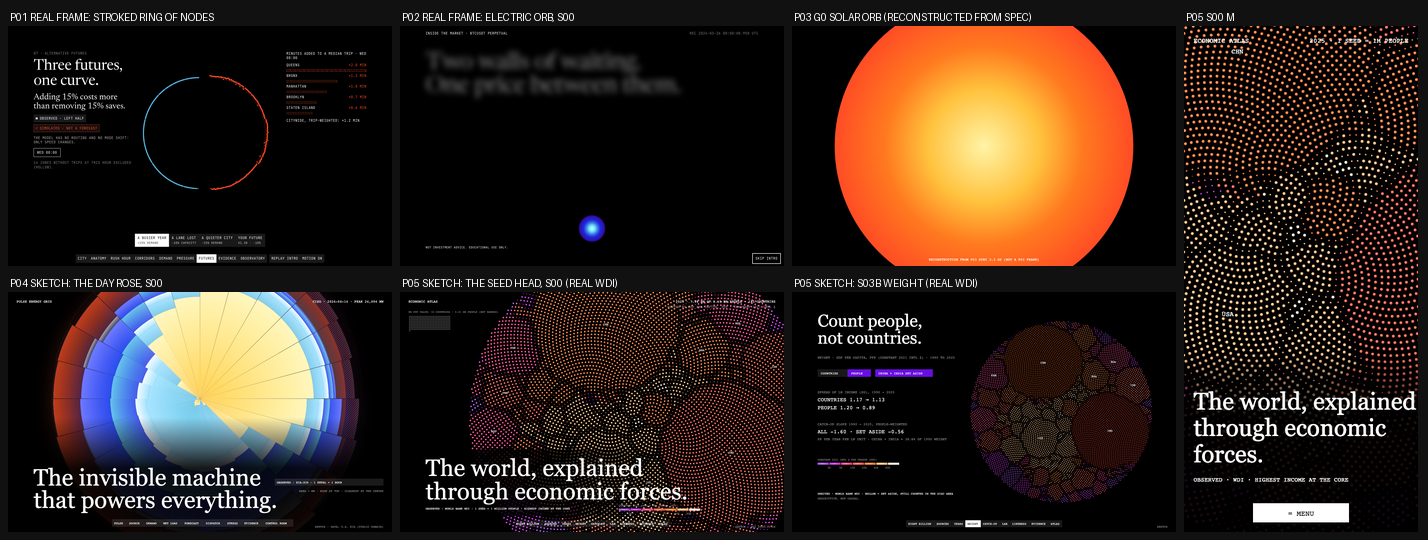
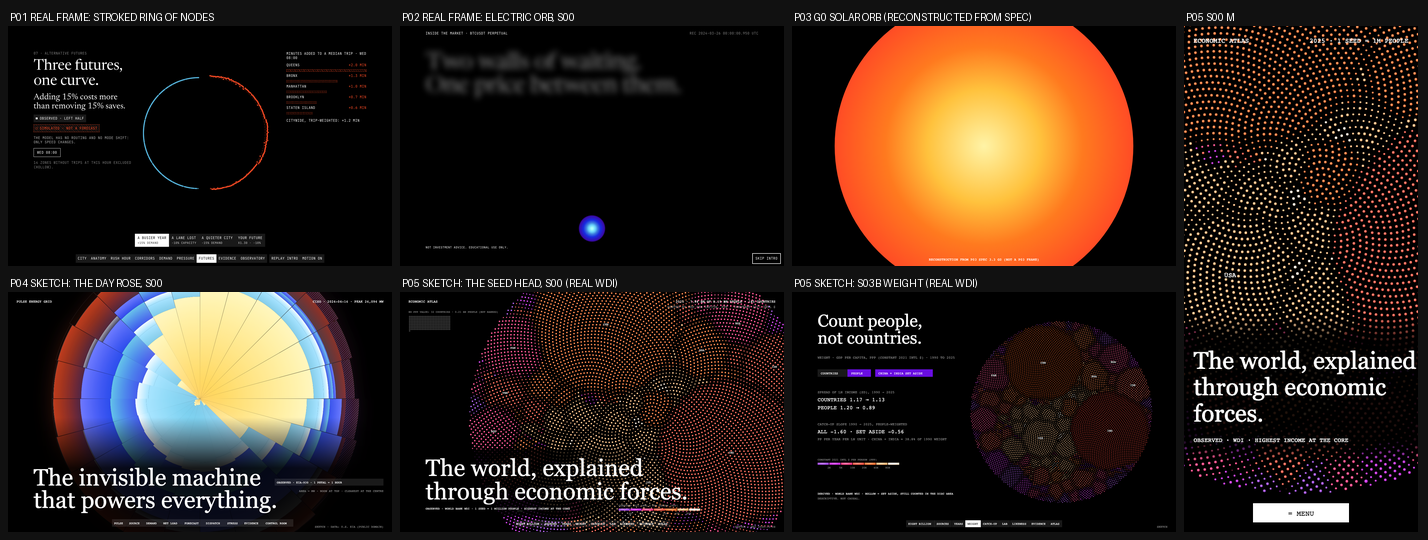
Creative direction: area carried by slots, symmetric seams, visible G0 edge on T/M
Area claim made testable (sum of slots x area_scale = people / 1M exactly;
grains are glyphs). Seams now thin both sides of every border (rank-neutral).
G0 T and M centres moved so a disc-edge arc is visible outside every scrim;
rejection criterion 19 and motion test 15 require it. Sketches re-rendered.

Claude-Session: https://claude.ai/code/session_01KTz1FYH3aWv8awYBpyrJYc

diff --git a/design/sketches/render_seed_sketch.py b/design/sketches/render_seed_sketch.py
@@ -6,9 +6,11 @@ then compose:              uv run --with pillow python design/sketches/compose_s
 
 Encoding (VISUAL_DESIGN section 0): 1 seed = 1 million people, max(1, round(pop / 1M)) per country (a country under
 0.5M holds one slot drawn at its true area). Seeds sit on a fixed-spacing Vogel lattice (equal area per slot), and each
-country owns one contiguous territory (territories.py), seeded by rank so the highest value sits at the core. Colour is
-the binned Spectral ramp of the sorted indicator. Seams: a seed whose neighbour belongs to a higher-ranked country is
-drawn smaller (a one-sided seam); territories of 6 seeds or fewer never seam. Countries without a value are a separate
+country owns one contiguous territory (territories.py), seeded by rank so the highest value sits at the core. Area is
+carried by slots (one slot = s^2 per rounded million people, scaled by area_scale = pop / (slots x 1M)); grains are glyphs
+of radius r_base x sqrt(area_scale). Colour is the binned Spectral ramp of the sorted indicator. Seams are symmetric and
+rank-neutral: every grain on either side of a border has r_base 0.30 s instead of 0.40 s; territories of 6 slots or fewer
+never seam. Countries without a value are a separate
 hollow set beside the disc, never at its rim. The production layout is computed by the pipeline (DR-1), not here.
 """
 import json
@@ -66,14 +68,12 @@ def mosaic(year, cx, cy, s, hollow=(), label_min=90e6, label=True):
     P = G * s * math.sqrt(n)
     d2 = ((P[:, None, :] - P[None, :, :]) ** 2).sum(-1)
     nn = np.argsort(d2, 1)[:, 1:7]
-    seam = ((own[nn] < own[:, None]).any(1)) & (counts[own] > 6)
+    seam = ((own[nn] != own[:, None]).any(1)) & (counts[own] > 6)  # both sides of every border: rank-neutral
     out = []
     for g, (x, y) in enumerate(P):
         c = own[g]
         iso, v, p = rows[c]
-        r = s * (0.22 if seam[g] else 0.42)
-        if p < 0.5e6:
-            r = s * 0.42 * math.sqrt(p / 1e6)  # true area of a sub-million country
+        r = s * (0.30 if seam[g] else 0.40) * math.sqrt(p / (counts[c] * 1e6))  # glyph area follows area_scale
         if iso in hollow:
             out.append(f'<circle cx="{cx + x:.1f}" cy="{cy + y:.1f}" r="{max(r, .6):.2f}" fill="none" stroke="{BINS[bin_of(v)][0]}" stroke-width=".8"/>')
         else:
@@ -149,17 +149,18 @@ def s00_d():
 
 def s00_m():
     yr = facts["gdppc_ppp_latest_year"]["value"]
-    disc, n, R, rows = mosaic(yr, 195, 330, 5.9, label_min=250e6)
+    disc, n, R, rows = mosaic(yr, 195, 270, 5.7, label_min=250e6)
     body = [disc,
             '<defs><linearGradient id="scrimm" x1="0" y1="0" x2="0" y2="1"><stop offset="0" stop-color="#000" stop-opacity="0"/>'
-            '<stop offset=".35" stop-color="#000" stop-opacity=".88"/><stop offset="1" stop-color="#000" stop-opacity=".92"/></linearGradient></defs>',
-            '<rect x="0" y="540" width="390" height="304" fill="url(#scrimm)"/>',
-            f'<text x="16" y="640" fill="#fff" {SERIF} font-size="40">The world, explained</text>',
-            f'<text x="16" y="684" fill="#fff" {SERIF} font-size="40">through economic</text>',
-            f'<text x="16" y="728" fill="#fff" {SERIF} font-size="40">forces.</text>',
+            '<stop offset=".2" stop-color="#000" stop-opacity=".88"/><stop offset=".85" stop-color="#000" stop-opacity=".88"/>'
+            '<stop offset="1" stop-color="#000" stop-opacity="0"/></linearGradient></defs>',
+            '<rect x="0" y="480" width="390" height="250" fill="url(#scrimm)"/>',
+            f'<text x="16" y="572" fill="#fff" {SERIF} font-size="40">The world, explained</text>',
+            f'<text x="16" y="616" fill="#fff" {SERIF} font-size="40">through economic</text>',
+            f'<text x="16" y="660" fill="#fff" {SERIF} font-size="40">forces.</text>',
             f'<text x="16" y="28" fill="#fff" {MONO} font-size="11">ECONOMIC ATLAS</text>',
             f'<text x="374" y="28" fill="#fff" {MONO} font-size="11" text-anchor="end">{yr} · 1 SEED = 1M PEOPLE</text>',
-            f'<text x="16" y="760" fill="#fff" {MONO} font-size="10">OBSERVED · WDI · HIGHEST INCOME AT THE CORE</text>',
+            f'<text x="16" y="694" fill="#fff" {MONO} font-size="10">OBSERVED · WDI · HIGHEST INCOME AT THE CORE</text>',
             '<rect x="115" y="796" width="160" height="32" fill="#fff"/>',
             f'<text x="195" y="817" fill="#000" {MONO} font-size="12" text-anchor="middle">= MENU</text>']
     (OUT / "seed-s00-m.svg").write_text(svg("\n".join(body), 390, 844))
@@ -204,6 +205,7 @@ if __name__ == "__main__":
     n, R = s00_d()
     print(f"S00 D: {n} slots, disc radius {R:.0f}px (diameter {2 * R / 900:.2f} x frame height)")
     s00_m()
+    print("S00 M: disc radius 510px at c (195, 270): bottom edge arc y 741-780, above the MENU pill (y 796)")
     s03b_d()
     p03_orb()
     print("wrote", sorted(p.name for p in OUT.glob("*.svg")))

diff --git a/docs/VISUAL_DESIGN.md b/docs/VISUAL_DESIGN.md
@@ -74,11 +74,11 @@ The giant circular element is **the Seed Head**: the world's people as one disc 
 
 | Aspect | Rule |
 |---|---|
-| **Seed** | One seed = one million people. A country holds `max(1, round(pop / 1,000,000))` slots, rounded **per country**, so the count never depends on the sort. Each of its seeds is drawn at area `pop / (slots × 1,000,000)` of a full seed, so **total ink is exactly proportional to people**. A country under 500,000 people holds one slot drawn at its true fraction of a seed. The legend says `1 SEED ≈ 1 MILLION PEOPLE · SMALLEST SEEDS: COUNTRIES UNDER 500,000` |
+| **Seed** | One seed = one million people. A country holds `max(1, round(pop / 1,000,000))` slots, rounded **per country**, so the count never depends on the sort. **Area is carried by slots:** every slot is `s²`, and a country's slots carry `area_scale = pop / (slots × 1,000,000)` each, so `Σ slots × area_scale = people / 1,000,000` exactly, and the disc's area is the world's people. Grains are **glyphs** inside their slots: their drawn area is proportional to `area_scale` (a country under 500,000 people holds one slot whose grain is drawn at its true fraction of a full grain), but glyph ink is texture, not the measure. The legend says `1 SEED ≈ 1 MILLION PEOPLE · SMALLEST SEEDS: COUNTRIES UNDER 500,000` |
 | **Lattice** | A Vogel (Fermat) spiral. Slot `i` sits at radius `s × sqrt(i + 0.5)` and angle `i × 137.508°`. Every slot has the same area, `s²`. The spacing `s` is constant across years, so **the disc's area is the world's people**: it holds 5,202 slots in 1990 and 8,005 in 2025, and new slots are added at the rim |
 | **Territory** | Every country owns one contiguous territory of exactly its slot count. The territory is seeded at the country's rank position, so the indicator's highest value is at the core and the lowest at the rim. The layout is computed offline (DR-1) |
 | **Order** | `rankings.json` order: descending by value, ties broken by iso3, countries with a value only. **Aggregates never appear** |
-| **Seed size** | A full seed has radius `0.40 s`. A **seam seed** (one whose lattice neighbour belongs to a higher-ranked country) has radius `0.22 s`, which draws a one-seed-wide dark seam on the lower side of every border. Territories of 6 seeds or fewer never seam, so small countries never dissolve |
+| **Seed size** | A grain's glyph radius is `r_base × sqrt(area_scale)`, with `r_base` = `0.40 s` inside a territory. A **seam grain** (any grain with a 6-NN lattice neighbour owned by another country) has `r_base` = `0.30 s`. Seams are **symmetric and rank-neutral**: both sides of every border thin by the same amount, so no border thins the poorer side. Territories of 6 slots or fewer never seam, so small countries never dissolve |
 | **Colour** | The binned Spectral ramp of the sorted indicator (below), with 7 bins whose edges come from DR-7. Each seed carries a small luminous radial gradient (bin colour at the edge, a lighter tint at 42% / 38% of its box): grains glow, never flat swatches |
 | **Count modes** | **PEOPLE** (the default above). **COUNTRIES**: one seed per country, all equal, on a Vogel lattice of `n` slots at the same disc radius. This is the unweighted view |
 | **No data** | Countries without a value in the active year are **never in the disc and never at its rim**. They form a separate hollow set (1px white outlines at 60%, one per million people) beside the disc, captioned `NO {{label}} VALUE: {{n}} COUNTRIES · {{bn}} BN PEOPLE (NOT RANKED)` |
@@ -318,7 +318,7 @@ Both lessons are now rules: section 0 seams and territories, and rejection crite
 
 **Why A gets 4 for feasibility.** The territory layout is an offline iterative solve. It takes 6.6s per layout in numpy on this machine, so it must be precomputed (DR-1). The browser needs WebGL2 for 60fps transitions of 8,005 grains, and the Canvas2D fallback is slower (MOTION_SYSTEM 9.2).
 
-**Why A gets 4 for mobile.** At M, a full seed is about 2.4px across at G0 (`s` 5.9). The grain texture holds, but iso3 labels fit only for the 4 most populous countries, so naming relies on tap. That is solvable (3.3), and it is the main M risk.
+**Why A gets 4 for mobile.** At M, a full grain is about 4.6px across at G0 (`s` 5.7). The grain texture holds, but iso3 labels fit only for the 4 most populous countries, so naming relies on tap. That is solvable (3.3), and it is the main M risk.
 
 ### Selection: A, "The Seed Head", with two grafts
 
@@ -377,7 +377,7 @@ The total is about 2,300vh. If the QA scroll recording shows fatigue, cut S06 to
 
 | State | D 1440x900 | T 768x1024 | M 390x844 | Notes |
 |---|---|---|---|---|
-| **G0 Giant** (S00, S01 start, S08 echo) | c (900, 470), s 7.15, **R 640** (diameter 1.42 x frame height) | c (384, 470), s 7.0, R 626 (1.22 x) | c (195, 330), s 5.9, R 528 (1.25 x) | Cropped top and bottom on D, and on all four sides on T and M. **Disc diameter is at least 1.2 x the frame height on every viewport.** The no-data set sits top-left (D x 32-190, y 86-150), under the wordmark |
+| **G0 Giant** (S00, S01 start, S08 echo) | c (900, 470), s 7.15, **R 640** (diameter 1.42 x frame height). The left edge arc is visible from x 260 | c (300, 420), s 6.93, R 620 (1.21 x). The edge arc is visible in the bottom-right quadrant, from (768, 827) to about (440, 1024), right of the headline scrim | c (195, 270), s 5.7, R 510 (1.21 x). The bottom edge arc is visible across the frame at y 741-780, between the headline band and the MENU pill | **Disc diameter is at least 1.2 x the frame height on every viewport, and part of the disc edge is visible outside every scrim** (so the frame reads as a giant circle, not full-frame texture). The no-data set sits top-left (D x 32-190, y 86-150), under the wordmark; on T and M it is in the S01 readout instead |
 | G1 Aside (S01 end, S02 backdrop at 20%) | c (1030, 450), s 3.9, R 349 | c (384, 700), s 3.2, R 286 | c (195, 610), s 2.3, R 206 | |
 | G2 Years (S03a) | c (1010, 460), s 4.4. R 394 in 2025, 317 in 1990 | c (384, 600), s 3.9, R 349 / 281 | c (195, 440), s 2.6, R 233 / 188 | `s` is fixed, so the disc grows with people across years |
 | G3 Weight (S03b) | c (1010, 450), s 3.8, R 340. COUNTRIES: 185 seeds over R 340 (spacing 25) | c (384, 640), s 3.4, R 304 | c (195, 420), s 2.3, R 206 | |
@@ -387,8 +387,9 @@ The total is about 2,300vh. If the QA scroll recording shows fatigue, cut S06 to
 | G5 Atlas (ATLAS) | c (560, 470), R 360 | c (384, 380), R 300 | c (195, 300), R 190 | |
 
 - **Interpolation.** Between states, the centre interpolates linearly and `s` (or R) in **log space**. These are camera moves on the whole disc; they never animate data.
-- **Mobile seed size.** At G0 M, a full seed is 2 × 0.40 × 5.9 = 4.7px across, so the grain texture is resolved at DPR 2.
-- **Arithmetic check** of `R = s × sqrt(N)` with N = 8,005 (sqrt 89.47): 7.15 gives 640, 5.9 gives 528 and 7.0 gives 626. The 2025 S00 sketch (`seed-s00-d.png`) measured R 640.
+- **Mobile grain size.** At G0 M, a full grain is 2 × 0.40 × 5.7 = 4.6px across, so the grain texture is resolved at DPR 2.
+- **Arithmetic check** of `R = s × sqrt(N)` with N = 8,005 (sqrt 89.47): 7.15 gives 640, 6.93 gives 620 and 5.7 gives 510.
+- **Sketches.** `seed-s00-d.png` (R 640) and `seed-s00-m.png` (R 510, bottom arc visible above the MENU pill) were rendered at these values.
 
 ### 3.4 Scenes
 
@@ -419,8 +420,8 @@ There are no spinners and no artificial delays.
 - **Data:** GDP per capita PPP, latest year (`seedhead/gdppc_ppp_latest.json`, DR-1), `facts`, `meta`.
 - **Per viewport.**
   - **D:** the headline is left-aligned at x 96, 2 lines at 88px (y 620-790), over a left-to-right scrim (x 0-1000, y 590-840, black 92% to 0). The disc is at G0. The sketch is `seed-s00-d.png`.
-  - **T:** 64px, 3 lines, at y 760-950, over a bottom scrim.
-  - **M:** 40px, 3 lines, at y 600-730, over a bottom scrim from y 540. The disc is cropped on all four sides (sketch `seed-s00-m.png`).
+  - **T:** 64px, 3 lines, left-aligned at x 48, y 700-890, over a left-to-right scrim (x 0-600) that leaves the bottom-right edge arc clear.
+  - **M:** 40px (36px if the first line would exceed 358px), 3 lines, at y 540-670, over a scrim band y 480-730 that fades out at both ends. The chip line sits at y 694. The disc's bottom edge arc (y 741-780) stays clear above the MENU pill (sketch `seed-s00-m.png`).
 - **Corner labels.**
   - Top-left: the mono wordmark `ECONOMIC ATLAS` (13px), with the no-data set beneath it (D).
   - Top-right, line 1: `{{year}} · {{people_with_data_bn}} BN OF {{world_pop_bn}} BN PEOPLE · {{n}} COUNTRIES`.
@@ -791,7 +792,7 @@ There are eleven interactions. Six are driven by visitor-set analytical paramete
 - **Visual output:** coalesce or burst, the hollow set-aside, the ledgers and the bracket.
 - **Keyboard:** the three controls are radio groups or a switch, and every state is reachable without scrolling.
 - **Reduced motion:** 4 static discs (PEOPLE latest, COUNTRIES latest, PEOPLE 1990, PEOPLE latest set aside) with ledgers.
-- **Test:** each ledger number equals the bound fact. In COUNTRIES mode the seed count equals `rankings…n`. In PEOPLE mode, the total seed area over `s²` equals people/1M within 0.5%.
+- **Test:** each ledger number equals the bound fact. In COUNTRIES mode the seed count equals `rankings…n`. In PEOPLE mode, `Σ slots × area_scale` equals people/1M exactly (float tolerance 1e-9 relative), and every country's slot count equals `max(1, round(pop/1e6))`.
 
 ### 4. Source Deck (S02)
 
@@ -1006,7 +1007,8 @@ I fail the build on review if any of these is true:
 1. **Any section reads as a dashboard.** That means a KPI tile row, a framed chart with gridlines and a default legend box, a full-height sidebar, or a gradient legend bar. ATLAS fails if its rail is a solid panel instead of floating glass controls. **The S04/S05 plane fails** if it has gridlines, a frame, tick marks or a legend box, or if its seeds lose their grain and highlight (reference 20).
 2. **The Seed Head becomes someone else's form or a library chart.** That means any of: an outline or outer circle, guide rings, concentric gridlines, a tick ring, nodes on any circumference, chords, rotation, a stepped angle, a sweep, wedges, petals, spokes, square cells, sphere shading or a limb, a smooth glow disc, a radial-gradient fill without grains, polygon cell outlines (a Voronoi treemap, reference 18), or packed country circles (reference 19). Any of these is an automatic redesign (P01, P03, P04, P06, P08, P09 identities).
 3. **The Seed Head lies.** That means any of:
-   - seed area not proportional to people (Σ seed area / `s²` must equal people/1M within 0.5%)
+   - disc area not equal to people (`Σ slots × area_scale` must equal people/1M exactly), or glyph area not proportional to `area_scale`
+   - a seam that thins only one side of a border (seams must be symmetric and rank-neutral)
    - a country's seed count that changes with the sort
    - a territory split into pieces (DR-1 connectivity under 95%)
    - an aggregate drawn as a seed
@@ -1035,5 +1037,5 @@ I fail the build on review if any of these is true:
 16. **Provenance is missing:** no visible tag on a data visual, the WDI vintage missing from any scene's footer, or the WDI and Maddison attributions or the IMF line missing from S08.
 17. **The closing doesn't echo the opening.** It must be the same giant G0 disc, the same corner labels and the same shuffle-and-sort.
 18. **A U+2014 or U+2015 dash appears** in the site copy.
-19. **The giant circular composition is missing or undersized:** a disc diameter under 1.2 x the frame height at the S00 end state or at S08 p 0.75 on any viewport, or the disc fully inside the frame on D.
+19. **The giant circular composition is missing or undersized:** a disc diameter under 1.2 x the frame height at the S00 end state or at S08 p 0.75 on any viewport; the disc fully inside the frame on D; or **no part of the disc edge visible outside the scrims** at G0 on any viewport (D left arc, T bottom-right arc, M bottom arc).
 20. **Aggregates appear as countries:** in the disc, a ranking, a picker, a group or a correlation.

diff --git a/docs/MOTION_SYSTEM.md b/docs/MOTION_SYSTEM.md
@@ -83,7 +83,7 @@ Each rule is checked in QA.
 | **LCP:** `h1[data-hero]` is in the HTML and painted from first paint as ghost text (opacity 0.55, `filter: blur(12px)`, ENGINEERING_DECISIONS #10), never at opacity 0. The display font is preloaded, with a metric-matched fallback. The WebGL canvas is created after first paint | Lighthouse: the LCP element is `h1[data-hero]`, LCP is 2.5s or less and CLS is 0.1 or less (mobile and desktop presets) |
 | **Nothing heavy on the LCP path.** First paint needs only `facts.json`, `meta.json`, `countries.json` and `seedhead/gdppc_ppp_latest.json` (DR-1, under 6 KB gz). Everything else loads at idle or on scene entry (9.3) | A Lighthouse waterfall shows no panel, narratives or other seedhead request before FCP |
 | **No value tween, no basis tween.** Grains change colour only on landing or in a crossfade. Fit lines only crossfade. A basis change goes through the neutral phase | Vitest on the transition builder: no attribute stream mixes two bins with a weight strictly between 0 and 1 for more than 200ms. Playwright samples 10 frames of a BASIS swap: never two unit strings in the DOM, and never two bin palettes on the canvas (debug hook) |
-| **Area rule.** Total drawn seed area / `s²` equals people / 1M within 0.5% at every rest state in PEOPLE mode | Debug hook at S00 end, S03a p 0.5 and the ATLAS default |
+| **Area rule.** Area is carried by slots: `Σ slots × area_scale` equals people / 1M exactly (1e-9 relative) at every rest state in PEOPLE mode, and each glyph's drawn area / its interior or seam base area equals its `area_scale` within 1%. Seams are symmetric (both sides of a border) | Debug hook at S00 end, S03a p 0.5 and the ATLAS default |
 | **Straight paths only.** Grain paths are linear in position (eased in time). No rotation uniform exists | Code review plus a Vitest on the shader inputs: positions are `mix(from, to, e(t))` |
 | Animate only `transform`, `opacity` and `filter` (at most 14 word spans at once) in the DOM. The canvas draws its own pixels. Never animate layout properties or `backdrop-filter` | A DevTools trace shows no Layout events inside scrubbed frames |
 | **One `requestAnimationFrame` loop** owns everything: Lenis, progress, tweens and the GL draw | Grep finds one `requestAnimationFrame` call site (`src/motion/loop.ts`) |
@@ -172,7 +172,7 @@ Format for each entry:
 | 400-1000 | **Dust.** All N grains appear **at full G0 size and position**, each at the slot `perm[i]` of a seeded shuffle (seed 20261010), as neutral `#5A5A5A` at radius 0.25 s, opacity 0 to 0.6. From this frame on, the disc's visible extent is already giant. The no-data hollow set fades in (top-left) | 600ms premium |
 | 1000-1600 | **Speckle.** Each grain takes its own country's bin colour **in place** (a switch, staggered by a seeded 0-300ms delay) and grows to 0.40 s: the unsorted world | 300ms per grain, smooth |
 | 1600-3400 | **The sort.** Every grain travels in a straight line from its shuffled slot to its owned slot (keyed by `(iso3, k)`). Its delay is `aDelay` = seeded 0-200ms, and its duration 1600ms, symmetric. It keeps its colour (its colour *is* its country). The core gathers bright grains and the rim magenta ones | 1600ms + up to 200ms delay |
-| 3400-3700 | **Seams.** Seam grains shrink from 0.40 s to 0.22 s. Territories resolve, and the 6 most populous iso3 labels fade in (300ms) | 300ms smooth |
+| 3400-3700 | **Seams.** Seam grains on both sides of every border shrink their base radius from 0.40 s to 0.30 s. Territories resolve, and the 6 most populous iso3 labels fade in (300ms) | 300ms smooth |
 | 3400-3800 | The glow layer (grains at 1/4 resolution, 24px blur) fades from 0 to 14% | 400ms smooth |
 | 3600-4300 | The headline sharpens word by word (5.2, time-based, 80ms stagger). The scrim does not animate | 700ms premium |
 | 4200-4600 | Nav enters (translateY 16px to 0, opacity). The chip and legend appear bottom-left | 400ms premium |
@@ -531,7 +531,7 @@ Playwright runs against `npm run build && npm run preview` at D, T and M.
    - S04 at p 0.30, reached in reverse, matches a forward load.
 5. **Chapter jumps.** For every nav item: scrollY lands within 2px of the landing progress within 200ms, the hash updates, back/forward work, and focus is on the heading.
 6. **Resize mid-scene.** At S04 p 0.30 (mid-flight), resize 1440 to 390: the scene and p are preserved within ±0.01, there are no console errors, and the PL-M geometry matches the table.
-7. **Area rule.** Debug hook at the S00 end, S03a p 0.5 and the ATLAS default: Σ drawn seed area / `s²` equals people/1M within 0.5%, and per-country slot counts equal `max(1, round(pop/1e6))`.
+7. **Area rule.** Debug hook at the S00 end, S03a p 0.5 and the ATLAS default: `Σ slots × area_scale` equals people/1M (1e-9 relative), per-country slot counts equal `max(1, round(pop/1e6))`, glyph area follows `area_scale` within 1%, and every border's seam grains are on both sides.
 8. **No mixed bases.** During 10 sampled frames of a BASIS swap (S05) and of an ATLAS indicator change across families: never two unit strings in the DOM, and the debug hook reports one bin palette id on the canvas.
 9. **Integer and real states.**
    - During slow S03a scrubs, sampled `mix` values are 0 or 1 whenever no change happened in the previous 250ms.
@@ -542,7 +542,8 @@ Playwright runs against `npm run build && npm run preview` at D, T and M.
 13. **Reduced motion.** No sticky in scenes, no animated filter, a stable canvas counter, and every control still works.
 14. **Pause offscreen.** With S07 centred (after the cards settle), the canvas frame counter is flat for 2s.
 15. **Giant geometry and the P01/P02/P03/P04 confusion check (QA evidence).**
-    - A debug hook reports the disc radius at or above the G0 value (D 640, T 626, M 528) from 400ms into S00 to its end, never decreasing, and again at S08 p 0.75.
+    - A debug hook reports the disc radius at or above the G0 value (D 640, T 620, M 510) from 400ms into S00 to its end, never decreasing, and again at S08 p 0.75.
+    - At the S00 end state and S08 p 0.75, a screenshot check at D, T and M finds disc-edge pixels (grains with black beyond them, radially) outside every scrim rectangle: the D left arc, the T bottom-right arc and the M bottom arc.
     - The evidence harness writes `artifacts/evidence/<stage>/p01-p04-vs-p05-open-close.png`: S00 frames (0.5s, 1.5s, 3s, end) and S08 frames (p 0.3, 0.75, 0.9) of all five sites, at D and M, as 240px-tall tiles.
     - An independent QA reviewer confirms that no P05 frame shows any of these:
       - a stroked ring
